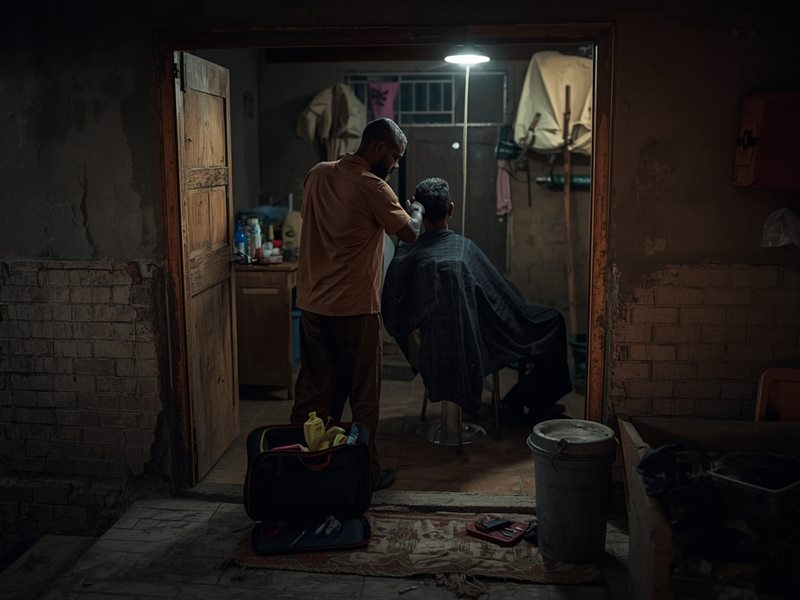
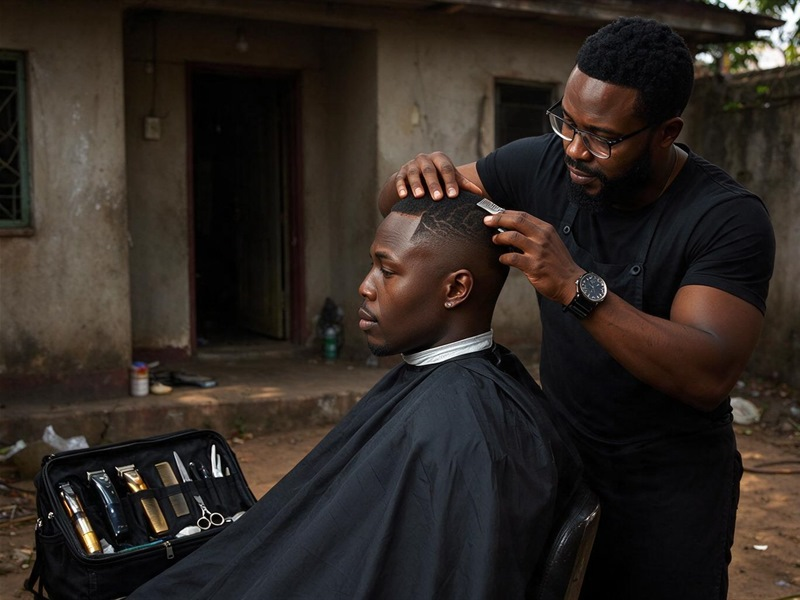
Update hero and home service images

diff --git a/sharp-cutz/app/page.module.css b/sharp-cutz/app/page.module.css
@@ -143,7 +143,7 @@
   }
 
   .heroPhoto {
-    object-position: 70% center;
+    object-position: 70% 32%;
   }
 
   .heroContent h1 {
@@ -444,7 +444,7 @@
   }
 
   .heroPhoto {
-    object-position: 78% center;
+    object-position: 78% 28%;
   }
 
   .cutsGrid {
@@ -524,7 +524,7 @@
   }
 
   .heroPhoto {
-    object-position: center;
+    object-position: center 24%;
   }
 
   .heroContent {
